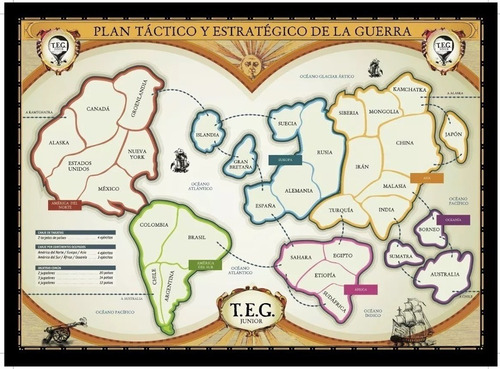
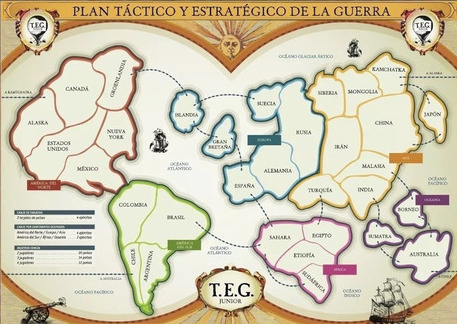
Fix max players creat game form. Change board styles

diff --git a/teg-server/src/forceDb/preloadDb/countries.ts b/teg-server/src/forceDb/preloadDb/countries.ts
@@ -3,69 +3,69 @@ const countries = [
         id: 1,
         name: 'Alaska',
         continentId: 1,
-        cssTopPosition: '37%',
-        cssLeftPosition: '10%'
+        cssTopPosition: '35%',
+        cssLeftPosition: '7%'
     },{
         id: 2,
         name: 'Canada',
         continentId: 1,
-        cssTopPosition: '28%',
-        cssLeftPosition: '18%'
+        cssTopPosition: '26%',
+        cssLeftPosition: '16%'
         
     },{
         id: 3,
         name: 'Groenlandia',
         continentId: 1,
-        cssTopPosition: '25%',
-        cssLeftPosition: '26%'
+        cssTopPosition: '21%',
+        cssLeftPosition: '25%'
     },{
         id: 4,
         name: 'Estados Unidos',
         continentId: 1,
         cssTopPosition: '43%',
-        cssLeftPosition: '15%'
+        cssLeftPosition: '13%'
     },{
         id: 5,
         name: 'Nueva York',
         continentId: 1,
-        cssTopPosition: '40%',
-        cssLeftPosition: '26%'
+        cssTopPosition: '39%',
+        cssLeftPosition: '24%'
     },{
         id: 6,
         name: 'México',
         continentId: 1,
-        cssTopPosition: '49%',
-        cssLeftPosition: '21%'
+        cssTopPosition: '50%',
+        cssLeftPosition: '18%'
     },{
         id: 7,
         name: 'Colombia',
         continentId: 2,
-        cssTopPosition: '59%',
-        cssLeftPosition: '29%'
+        cssTopPosition: '61%',
+        cssLeftPosition: '27%'
     },{
         id: 8,
         name: 'Brasil',
         continentId: 2,
-        cssTopPosition: '62%',
-        cssLeftPosition: '38%'
+        cssTopPosition: '65%',
+        cssLeftPosition: '37%'
     },{
         id: 9,
         name: 'Chile',
         continentId: 2,
-        cssTopPosition: '74%',
-        cssLeftPosition: '29%'
+        cssTopPosition: '76%',
+        cssLeftPosition: '27%'
     },{
         id: 10,
         name: 'Argentina',
         continentId: 2,
-        cssTopPosition: '74%',
-        cssLeftPosition: '34%'
+        cssTopPosition: '80%',
+        cssLeftPosition: '32%'
     },{
         id: 11,
         name: 'Islandia',
         continentId: 3,
-        cssTopPosition: '34%',
-        cssLeftPosition: '40%'
+        cssTopPosition: '33%',
+        cssLeftPosition: '39%'
 
     },{
         id: 12,
@@ -77,122 +77,122 @@ const countries = [
         id: 13,
         name: 'España',
         continentId: 3,
-        cssTopPosition: '53%',
-        cssLeftPosition: '51%'
+        cssTopPosition: '55%',
+        cssLeftPosition: '52%'
     },{
         id: 14,
         name: 'Suecia',
         continentId: 3,
-        cssTopPosition: '31%',
-        cssLeftPosition: '56%'
+        cssTopPosition: '29%',
+        cssLeftPosition: '57%'
     },{
         id: 15,
         name: 'Rusia',
         continentId: 3,
         cssTopPosition: '39%',
-        cssLeftPosition: '63%'
+        cssLeftPosition: '64%'
     },{
         id: 16,
         name: 'Alemania',
         continentId: 3,
         cssTopPosition: '49%',
-        cssLeftPosition: '58%'
+        cssLeftPosition: '59%'
     },{
         id: 17,
         name: 'Sahara',
         continentId: 4,
-        cssTopPosition: '68%',
-        cssLeftPosition: '58%'
+        cssTopPosition: '71%',
+        cssLeftPosition: '60%'
     },{
         id: 18,
         name: 'Egipto',
         continentId: 4,
-        cssTopPosition: '67%',
-        cssLeftPosition: '68%'
+        cssTopPosition: '71%',
+        cssLeftPosition: '71%'
     },{
         id: 19,
         name: 'Etiopía',
         continentId: 4,
-        cssTopPosition: '72%',
-        cssLeftPosition: '64%'
+        cssTopPosition: '77%',
+        cssLeftPosition: '65%'
     },{
         id: 20,
         name: 'Sudáfrica',
         continentId: 4,
-        cssTopPosition: '80%',
-        cssLeftPosition: '66%'
+        cssTopPosition: '85%',
+        cssLeftPosition: '68%'
     },{
         id: 21,
         name: 'Siberia',
         continentId: 5,
-        cssTopPosition: '29%',
-        cssLeftPosition: '68%'
+        cssTopPosition: '28%',
+        cssLeftPosition: '70%'
     },{
         id: 22,
         name: 'Mongolia',
         continentId: 5,
-        cssTopPosition: '28%',
-        cssLeftPosition: '75%'
+        cssTopPosition: '25%',
+        cssLeftPosition: '78%'
     },{
         id: 23,
         name: 'Kamchatka',
         continentId: 5,
-        cssTopPosition: '23%',
-        cssLeftPosition: '81%'
+        cssTopPosition: '20%',
+        cssLeftPosition: '84%'
     },{
         id: 24,
         name: 'Irán',
         continentId: 5,
         cssTopPosition: '43%',
-        cssLeftPosition: '71%'
+        cssLeftPosition: '73%'
     },{
         id: 25,
         name: 'China',
         continentId: 5,
-        cssTopPosition: '38%',
-            cssLeftPosition: '80%'
+        cssTopPosition: '37%',
+        cssLeftPosition: '84%'
     },{
         id: 26,
         name: 'Japón',
         continentId: 5,
-        cssTopPosition: '34%',
-        cssLeftPosition: '89%'
+        cssTopPosition: '33%',
+        cssLeftPosition: '93%'
     },{
         id: 27,
         name: 'Turquía',
         continentId: 5,
-        cssTopPosition: '54%',
-        cssLeftPosition: '67%'
+        cssTopPosition: '56%',
+        cssLeftPosition: '68%'
     },{
         id: 28,
         name: 'Malasia',
         continentId: 5,
-        cssTopPosition: '48%',
-        cssLeftPosition: '77%'
+        cssTopPosition: '49%',
+        cssLeftPosition: '79%'
     },{
         id: 29,
         name: 'India',
         continentId: 5,
-        cssTopPosition: '55%',
-            cssLeftPosition: '76%'
+        cssTopPosition: '56%',
+        cssLeftPosition: '78%'
     },{
         id: 30,
         name: 'Sumatra',
         continentId: 6,
-        cssTopPosition: '67%',
-        cssLeftPosition: '79%'
+        cssTopPosition: '70%',
+        cssLeftPosition: '81%'
     },{
         id: 31,
         name: 'Borneo',
         continentId: 6,
-        cssTopPosition: '60%',
-        cssLeftPosition: '85%'
+        cssTopPosition: '63%',
+        cssLeftPosition: '88%'
     },{
         id: 32,
         name: 'Australia',
         continentId: 2,
-        cssTopPosition: '72%',
-        cssLeftPosition: '88%'
+        cssTopPosition: '76%',
+        cssLeftPosition: '91%'
     }
 ]
 

diff --git a/teg-client/components/Game/Panel/Players.tsx b/teg-client/components/Game/Panel/Players.tsx
@@ -15,19 +15,22 @@ const Players = () => {
     return (
         <div>
             {
-                players.map((p) => (
+                players?.map((p) => {
+                    console.log(p)    
+                return (
                     <PlayerRow key={p.id} userActionRequired={p.id === nextPlayerId}>
                         {   
-                            mustDo === 'finished' && nextPlayerId === p.id ?
-                            <p>Ganador </p> :
-                            nextPlayerId === p.id ?
-                            <p>Debe jugar:</p> 
-                            :null
+                               mustDo === 'finished' 
+                            && nextPlayerId === p.id 
+                            ?  <p>Ganador </p> 
+                            :  nextPlayerId === p.id 
+                            ?  <p>Debe jugar:</p> 
+                            :  null
                         }
-                        <ColorCircle colorHex={p.color.hex} diameter='25px'/>
+                        <ColorCircle colorHex={p.color?.hex} diameter='25px'/>
                         <p>{p.user.alias || p.user.name}</p>
                     </PlayerRow>
-                ))
+                )})
             }
         </div>
     )

diff --git a/teg-client/components/PlayerAccordion/CreateGame/CreateGame.tsx b/teg-client/components/PlayerAccordion/CreateGame/CreateGame.tsx
@@ -1,14 +1,14 @@
 import React, { useState } from 'react'
 import axios from 'axios';
 import { useRouter } from 'next/router'  
-import { Form, Button, Row, Col, Alert } from 'react-bootstrap'
+import { Form, Button, Alert } from 'react-bootstrap'
 import ColorSelect from './ColorSelect';
 import { ColorSelectContainer, StyledForm, StyledLabel } from 'components/styledComponents/accordion.scss';
 
 const initBodyState: NewGameRequestBody = {
     userId: null,
     alias: '',
-    maxPlayers: 6,
+    maxPlayers: 2,
     colorId: null
 }
 

diff --git a/teg-client/styles/game.module.css b/teg-client/styles/game.module.css
@@ -9,7 +9,7 @@
 
 .board {
     height: 600px;
-    aspect-ratio: 5/3.7;
+    aspect-ratio: 4.57/3.24;
     
     
     position: relative;
@@ -18,6 +18,12 @@
     
     background-image: url('../public/board.jpg');
     background-size: cover;
+}
+@media (max-width: 600px) {
+    .board {
+        height: 100vh;
+
+    }
 }
 .statusTitle {
     width: 100%

diff --git a/teg-server/src/app/router/game/new-game.ts b/teg-server/src/app/router/game/new-game.ts
@@ -9,6 +9,8 @@ const router = Router();
 
 router.post('', async (req, res, next) => {
     const { userId, alias, colorId, maxPlayers } = req.body;
+
+    console.log({ maxPlayers })
     
     if (!userId || userId === undefined 
         || !alias || alias === undefined
